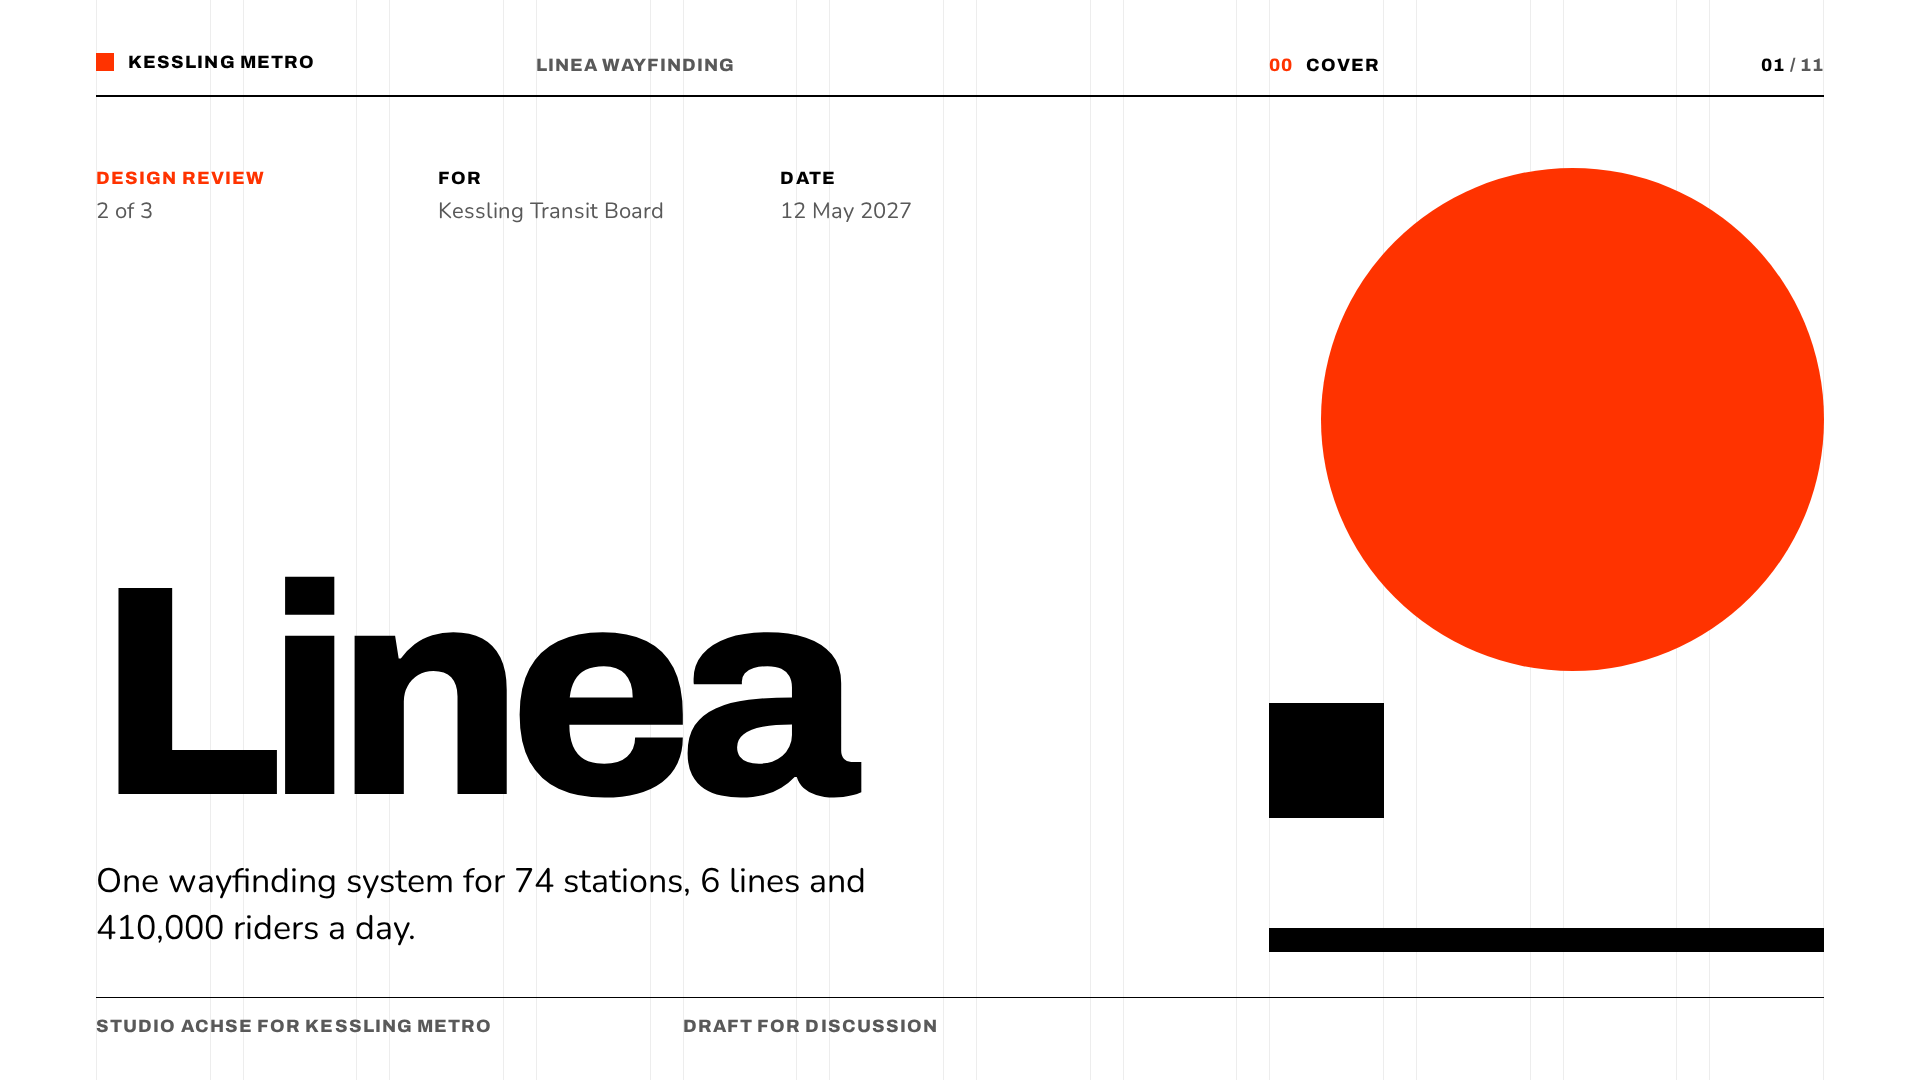
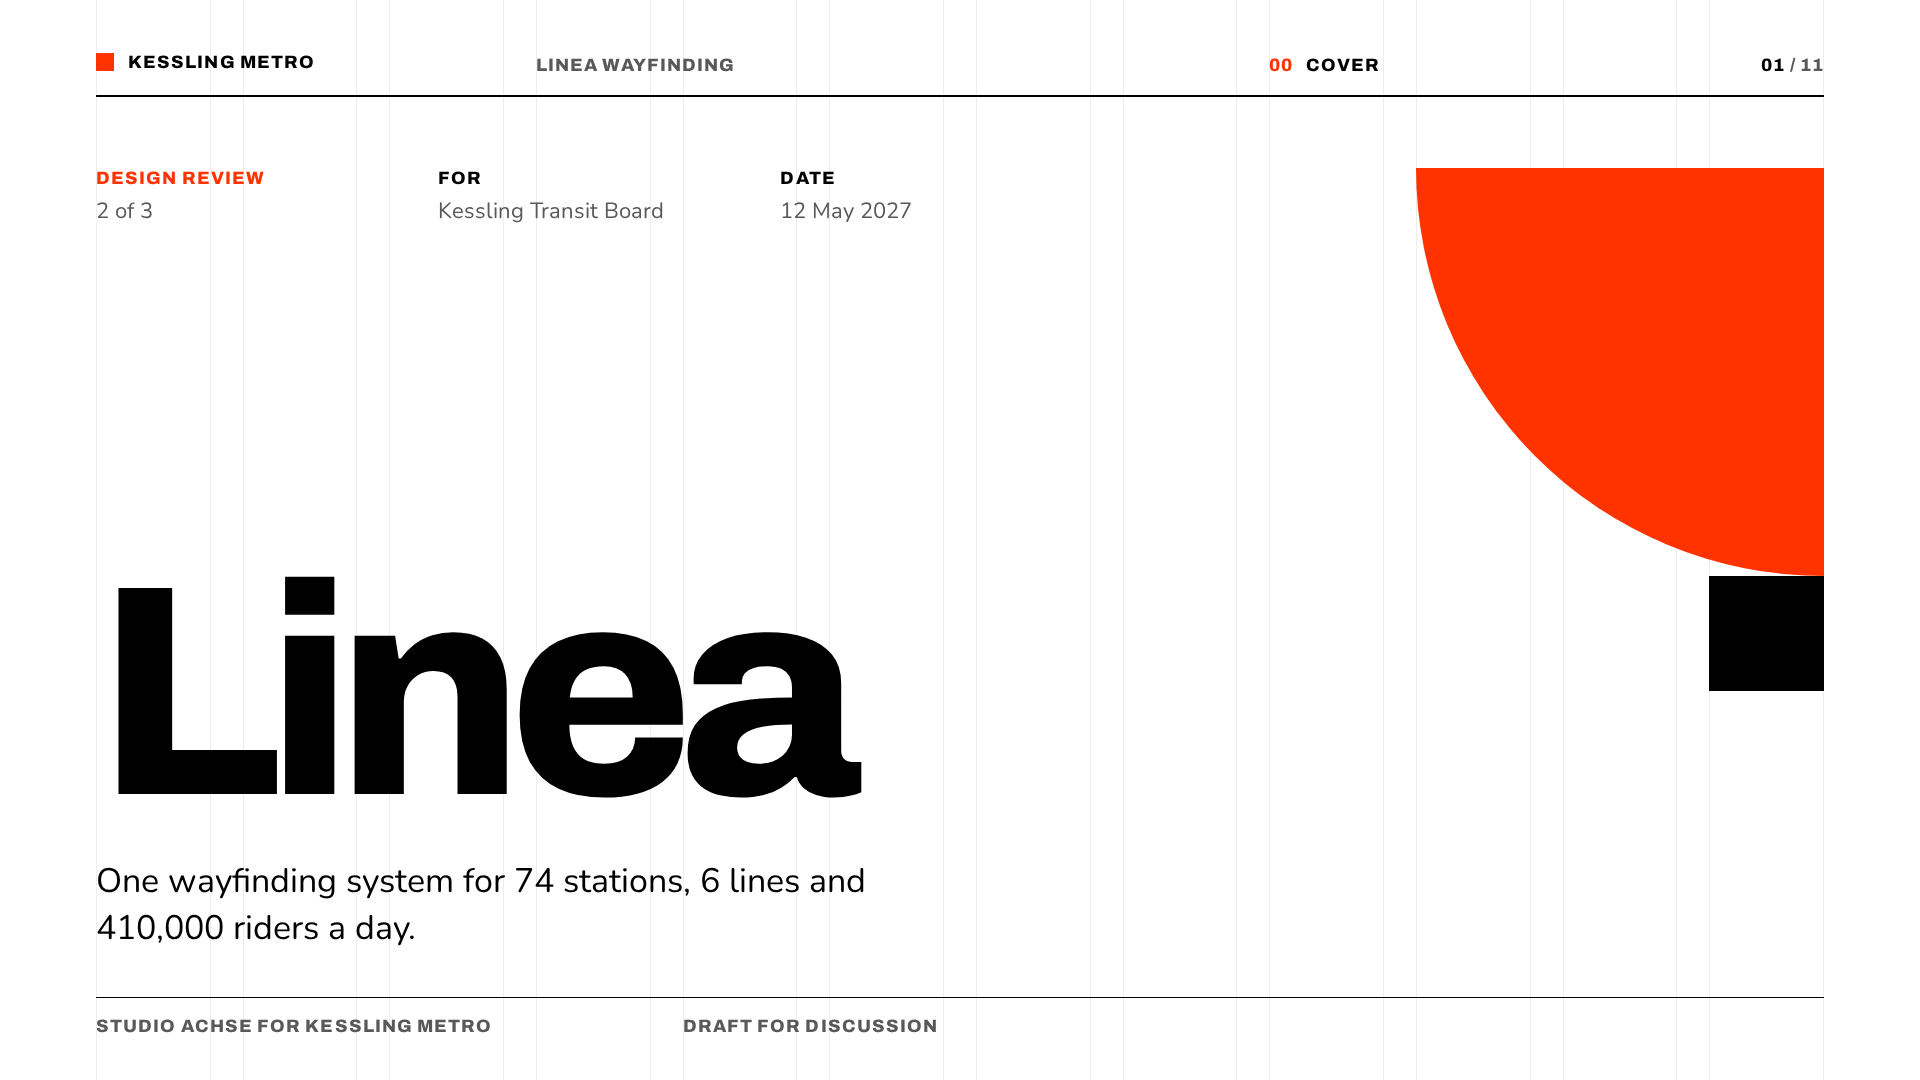
feat: author filter, offline download link, per-template slide background, Swiss Modern cover
Claude-Session: https://claude.ai/code/session_01UJqJVWCTfHhZrmuSnsXtBt

diff --git a/src/gallery.js b/src/gallery.js
@@ -1,5 +1,5 @@
-/* slides-commons gallery filters: search, source, scheme and mood.
- * State lives in the URL hash (#q=…&scheme=dark&mood=warm,bold&source=id) so a filtered
+/* slides-commons gallery filters: search, author, scheme and mood.
+ * State lives in the URL hash (#q=…&scheme=dark&mood=warm,bold&author=Name) so a filtered
  * view can be linked; it works from file:// too. Without JS every card stays visible. */
 (function () {
   'use strict';
@@ -14,9 +14,9 @@
   var noneEl = document.getElementById('fnone');
   var cards = Array.prototype.slice.call(grid.children);
   var chips = Array.prototype.slice.call(panel.querySelectorAll('button.chip'));
-  var GROUPS = ['source', 'scheme', 'mood'];
+  var GROUPS = ['author', 'scheme', 'mood'];
 
-  function emptyState() { return { q: '', source: [], scheme: [], mood: [] }; }
+  function emptyState() { return { q: '', author: [], scheme: [], mood: [] }; }
 
   function parseHash() {
     var st = emptyState();
@@ -25,9 +25,10 @@
     var params;
     try { params = new URLSearchParams(h); } catch (e) { return st; }
     st.q = params.get('q') || '';
+    // Old links used source=<id>; it no longer matches any chip, so ignore it quietly.
     GROUPS.forEach(function (g) {
       var v = params.get(g);
-      st[g] = v ? v.split(',').filter(Boolean) : [];
+      st[g] = v ? v.split(g === 'author' ? '|' : ',').filter(Boolean) : [];
     });
     return st;
   }
@@ -35,14 +36,17 @@
   function toHash(st) {
     var params = new URLSearchParams();
     if (st.q) params.set('q', st.q);
-    GROUPS.forEach(function (g) { if (st[g].length) params.set(g, st[g].join(',')); });
+    GROUPS.forEach(function (g) { if (st[g].length) params.set(g, st[g].join(g === 'author' ? '|' : ',')); });
     var s = params.toString().replace(/%2C/gi, ',');
     return s ? '#' + s : '';
   }
 
   // Within a group any selected value matches (OR); the groups and the text combine with AND.
   function matches(card, st, tokens) {
-    if (st.source.length && st.source.indexOf(card.getAttribute('data-source')) < 0) return false;
+    if (st.author.length) {
+      var authors = card.getAttribute('data-author').split('|');
+      if (!st.author.some(function (a) { return authors.indexOf(a) >= 0; })) return false;
+    }
     if (st.scheme.length && st.scheme.indexOf(card.getAttribute('data-scheme')) < 0) return false;
     if (st.mood.length) {
       var moods = card.getAttribute('data-mood').split('|');
@@ -70,7 +74,7 @@
     if (input.value !== state.q) input.value = state.q;
     var total = Number(countEl.getAttribute('data-total'));
     countEl.textContent = countEl.getAttribute('data-template').replace('{n}', shown).replace('{total}', total);
-    var active = Boolean(state.q || state.source.length || state.scheme.length || state.mood.length);
+    var active = Boolean(state.q || state.author.length || state.scheme.length || state.mood.length);
     clearBtn.hidden = !active;
     noneEl.hidden = shown !== 0;
     // A chip hidden inside a closed "more" list must not hide an active filter.

diff --git a/collections/style-presets/templates/swiss-modern/template.html b/collections/style-presets/templates/swiss-modern/template.html
@@ -290,9 +290,14 @@ svg {
 .s-cover .meta p:last-child { font-family: var(--font-body); font-weight: 400; text-transform: none; letter-spacing: 0; font-size: 22px; color: var(--text-2); margin-top: 8px; }
 .s-cover .title { grid-column: 1 / span 8; grid-row: 2 / span 5; }
 .s-cover .title .lede { margin-top: 44px; max-width: 900px; }
-.s-cover .disc { grid-column: 9 / span 4; grid-row: 1 / span 4; height: 100%; width: auto; justify-self: end; }
-.s-cover .bar { grid-column: 9 / span 4; grid-row: 6; align-self: end; height: 24px; }
-.s-cover .sq { grid-column: 9; grid-row: 5; align-self: end; width: 100%; }
+/* Cover mark, cols 10-12, top-right: a red quarter circle (radius = 3 columns, 408px) whose square
+   corner sits in the top-right corner of the frame, curve facing down-left, and one black
+   one-column square hanging flush under its right edge (col 12). The lower right stays empty.
+   Never a lone full red circle on white: it reads as a national flag. */
+.s-cover .mark { grid-column: 10 / span 3; grid-row: 1 / span 5; position: relative; }
+.s-cover .mark > * { position: absolute; top: 0; right: 0; }
+.s-cover .mark .qc { width: 100%; aspect-ratio: 1; border-radius: 0 0 0 100%; transform-origin: top right; }
+.s-cover .mark .sq { top: 408px; /* = 3 columns, the quarter's radius */ width: calc((100% - 2 * var(--gutter)) / 3); aspect-ratio: 1; transform-origin: top right; }
 
 /* ===========================================
    SLIDE 2 — AGENDA
@@ -461,9 +466,10 @@ th:first-child { width: 22%; padding-left: 0; }
                 <h1 class="d t-mega reveal" style="--i:2">Linea</h1>
                 <p class="lede reveal" style="--i:3">One wayfinding system for 74 stations, 6 lines and 410,000 riders a day.</p>
             </div>
-            <div class="circle f-red disc pop" style="--i:1" aria-hidden="true"></div>
-            <div class="square f-black sq pop" style="--i:3" aria-hidden="true"></div>
-            <div class="f-black bar wipe" style="--i:4" aria-hidden="true"></div>
+            <div class="mark" aria-hidden="true">
+                <div class="f-red qc pop" style="--i:1"></div>
+                <div class="f-black sq pop" style="--i:3"></div>
+            </div>
         </div>
         <footer class="foot" data-chrome><span class="c1">Studio Achse for Kessling Metro</span><span class="c2">Draft for discussion</span></footer>
     </section>

diff --git a/collections/style-presets/templates/swiss-modern/design.md b/collections/style-presets/templates/swiss-modern/design.md
@@ -138,7 +138,7 @@ components:
   rule-heavy:
     description: "4px black rule on top of list blocks, stat blocks and table heads; 2px under the header; 1px {colors.hair} between rows."
   shapes:
-    description: "Flat, borderless, pure black, pure red or grey: circle (border-radius 50%), square, triangle (clip-path), half circle (2:1, top corners round), quarter circle (one corner 100%). Sized to grid cells; never rotated except by 90/180 degrees; no outlines, no shadows."
+    description: "Flat, borderless, pure black, pure red or grey: circle (border-radius 50%), square, triangle (clip-path), half circle (2:1, top corners round), quarter circle (one corner 100%). Sized to grid cells; never rotated except by 90/180 degrees; no outlines, no shadows. A red circle is never used alone on a white field (it reads as a national flag): red round shapes are quarter or half circles, or a circle tied into a construction with black shapes and rules."
   slab:
     description: "Solid black grid block (divider) with white label at the top and a white Archivo 800 numeral at the bottom, overflow clip."
   field:
@@ -184,7 +184,7 @@ Swiss Modern is a **grid you can see**. Every slide is a white page with its 12 
 - White page, black type, red used once per slide (plus the small red square and section number in the header).
 - The grid is visible: both edges of every column, full height, 7% black.
 - Asymmetric layouts: big type or one big shape on one side, a structured block (list, table, stats) on the other. Staircases and offsets, never mirror symmetry.
-- Flat shapes only: circle, square, triangle, half circle, quarter circle. Black, red or grey. No outlines, no shadows, no gradients, no rounded rectangles.
+- Flat shapes only: circle, square, triangle, half circle, quarter circle. Black, red or grey. No outlines, no shadows, no gradients, no rounded rectangles. Big red shapes are cut (quarter, half) and locked to a black square or bar, never a lone red disc.
 - Archivo 800 everywhere type must be strong (headlines, numbers, labels); Nunito 400 for reading text.
 
 **Density philosophy: medium.** A Swiss slide is ordered, not empty: header, footer and grid are always present, so a single statement already feels complete, and a full option table still feels calm. Split when a block would break the grid.
@@ -268,8 +268,8 @@ Minimum on-slide text 18px; running text never below 22px.
 
 | Span | Width | Used for |
 |---|---|---|
-| 3 columns | 408px | One principle, a stat block, contact |
-| 4 columns | 555px | Side title column, cover circle |
+| 3 columns | 408px | One principle, a stat block, contact, cover quarter circle (radius) |
+| 4 columns | 555px | Side title column |
 | 5 columns | 701px | Divider slab, "before" field |
 | 7 columns | 995px | List, chart, "after" panel, hero number |
 | 12 columns | 1728px | Title bands, tables, timelines |
@@ -278,7 +278,8 @@ Minimum on-slide text 18px; running text never below 22px.
 
 - **Asymmetry.** Give one side the weight (big type, a slab, a large shape) and the other the structure. Leave whole columns empty on purpose.
 - **Staircase.** Repeated items (principles, milestones) step down by half a row (56px) per item instead of sitting in a flat row of equal cards.
-- **Shapes sit on the grid.** A shape's width is a whole number of columns (or its height a whole number of rows); its edge aligns to a column line. Shapes may touch but not overlap text.
+- **Shapes sit on the grid.** A shape's width is a whole number of columns (or its height a whole number of rows); its edge aligns to a column line. Shapes may touch or lock into each other (a black square flush under the straight edge of a red quarter circle) but never overlap text.
+- **Constructions, not emblems.** A shape group is anchored to a column line and a frame edge and reads as a construction. A single full red circle on white, or any centred, isolated red disc, reads as a national flag: cut it to a quarter or half and lock it to black shapes instead.
 - **Titles at the bottom of their band** (`justify-content: flex-end`), list and stat blocks start with a 4px black rule.
 
 ## Depth and Elevation
@@ -300,7 +301,7 @@ See the `components` tokens above for exact specs.
 
 The demo deck implements each of these. Coordinates are grid spans inside `.frame`.
 
-1. **Cover** — row 1, cols 1–7: three label/value meta pairs. Cols 1–8 bottom: `mega` word + lede. Cols 9–12: red circle (rows 1–4), black square (col 9, row 5), black bar (row 6).
+1. **Cover** — row 1, cols 1–7: three label/value meta pairs. Cols 1–8 bottom: `mega` word + lede. Top right, cols 10–12 (`.mark`, one small group): a red quarter circle with radius = 3 columns (408px), its square corner in the top-right corner of the frame (just under the header rule, flush with the right margin), curve facing down-left (`border-radius: 0 0 0 100%`); one black one-column square (114.67px) hanging flush under the quarter's right edge in col 12. Cols 9–12 below the mark stay empty white so the `mega` word and lede breathe; no other shapes or bars.
 2. **Agenda** — cols 1–4: red label, `display` "Agenda", one sentence. Cols 6–12: agenda list.
 3. **Section divider** — slab cols 1–5 full height with `section-num`; cols 7–12: red square, red label, `display` title, body.
 4. **Statement** — cols 1–10 rows 2–6: red label, `statement` with one red phrase, grey source. Black quarter circle cols 11–12 rows 1–2, tucked into the top-right corner.
@@ -337,6 +338,7 @@ Other layouts: a team slide is a staircase of names with shapes as avatars (no p
 - Don't centre text or compositions, and don't build rows of identical cards.
 - Don't use outlines, shadows, rounded rectangles, gradients or glass effects; don't use illustrations or icons — only the five shapes.
 - Don't put white text on red.
+- Never place a lone full red circle on a white field (and never a centred or isolated red disc): it reads as the Japanese flag. Use a quarter or half circle locked to black shapes and the grid.
 - Don't use Inter, Roboto, Arial or system fonts as the display face, purple gradients or `#6366f1` (frontend-slides "DO NOT USE").
 - Don't negate CSS functions directly: `-clamp(...)` / `-min(...)` are silently ignored — use `calc(-1 * ...)`.
 

diff --git a/CLAUDE.md b/CLAUDE.md
@@ -189,7 +189,9 @@ zip（以 `<slug>/` 为根）：
   - 新增 `template-designer` 子 agent（只写 `collections/`）。
 - 2026-11-17：使用说明改为「复制提示词 → 粘贴给 coding agent（agent 自己下载素材包）→ 回答问题」（仅设置站点网址时；本地构建保留先下载的说明），复制提示词为主按钮、下载为次要并附离线说明；素材包 README 按实际协议文件写字体协议（Yellowtail 为 Apache 2.0）；无 preview.md 的模板从 design.md 的 Signature Treatments/Moves/Elements 一节提取标志性手法（最多 5 条，16 个均有）；中文提示词引用中文按钮名「下载素材包（.zip）」。`npm test` 666 通过。
 - 2026-11-17：M5 完成（随 v0.2.0 发布）：新来源 `community`（`collections/community/`，`perTemplateLicense: true`，每个模板自带 LICENSE 与 authors，允许 MIT / Apache-2.0 / CC-BY-4.0 / CC0-1.0）；`scripts/collection-checks.mjs` 对所有 `collection: true` 模板做严格校验（协议、作者链接、design.md 必要章节、无位图、3 张 1920×1080 截图、体积上限、无 TODO、derivedFrom 目标存在）；`npm run new-template -- <slug> [--collection X]` 脚手架；改编投稿的 zip 带 `LICENSE-original-<slug>`；CI 新增 `guard` 作业（非仓库所有者的 PR 改 `upstream/` 或 `.gitmodules` 即失败，改其他集合模板给警告）；`.github/` PR 模板与 3 个 Issue 表单；`CONTRIBUTING.md`（中英）。卡片：作者署名统一 `slides-commons`，卡片等高、简介最多两行、标签与署名一行；详情页署名 `by slides-commons · based on a style preset by Zara Zhang`；16 个集合模板简介缩短。窄屏下详情页各行可换行（CI 上 zh monochrome 曾溢出 3px）。`npm test` 775 通过。
-  - 待办：`guard` 在 GitHub 跑通后加入 main 分支保护的必过检查。
+  - `guard` 已在 GitHub 跑通；加入 main 必过检查需维护者操作（自动模式拦截了 agent 改分支保护）。
+- 2026-11-17：v0.2.0 收尾：画廊筛选改为按作者（`author=`）；线上版下载改为复制按钮下的一行小字链接；提示词按模板写出 `--slide-bg` 具体色值（41/50，其余 9 个多底色或渐变保留通用说明，`deriveSlideBg()`）；swiss-modern 封面改为右上角红色四分之一圆 + 黑方块（避免像日本国旗）。
+  - 待办：中文字体按需嵌入（方案：本站托管 Fontsource 中文分片 + 素材包内零依赖 Node 脚本按用到的字挑分片并 base64 嵌入，下载失败回退 jsDelivr / Google 链接；有 fonttools 时再精确裁剪）。维护者 2026-11-17 决定延后。
 - 下一步：合并 v0.2.0（PR #2）→ 打标签发 Release → 线上模拟验收（只给提示词，用一个商务模板）；之后自托管字体第二步（CJK 裁剪）或 M6。
 
 ### 编排经验

diff --git a/CHANGELOG.md b/CHANGELOG.md
@@ -27,6 +27,10 @@ and this project adheres to [Semantic Versioning](https://semver.org/spec/v2.0.0
 - The prompt asks the agent to embed Latin fonts as base64 so decks work offline. CJK fonts still come from Google Fonts.
 
 ### Changed
+- Gallery filter is now by author (Zara Zhang, slides-commons, contributors) instead of by source; the hash key is `author=`.
+- On the published site the zip download is a small "Offline? Download the pack (.zip)" link under Copy prompt; prompts quote the label the page shows.
+- Prompts give each template's concrete `--slide-bg` value from its design.md (41 of 50; the rest keep the generic rule).
+- Swiss Modern cover: the lone red circle is replaced by a top-right quarter circle with a black square.
 
 - Gallery cards have equal heights, two-line taglines and a one-line credit.
 - Own templates are credited as "slides-commons".
